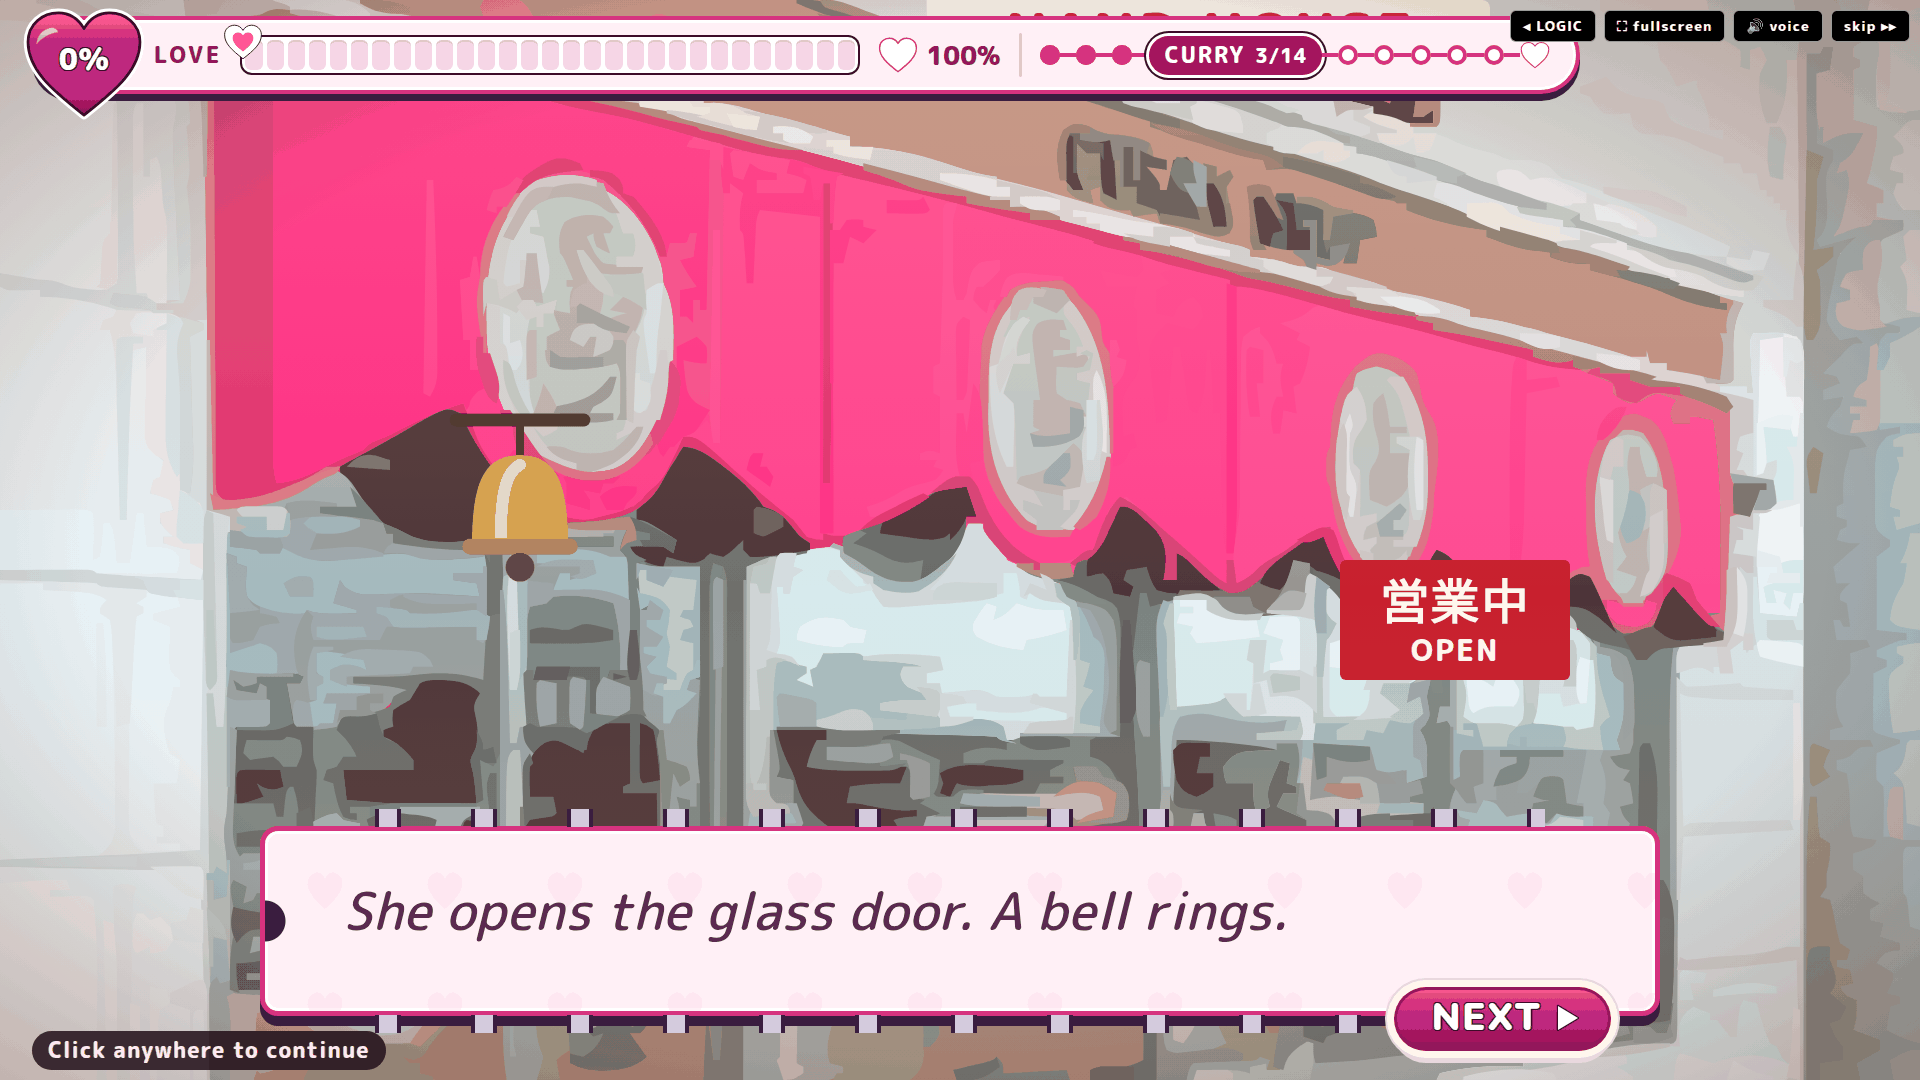
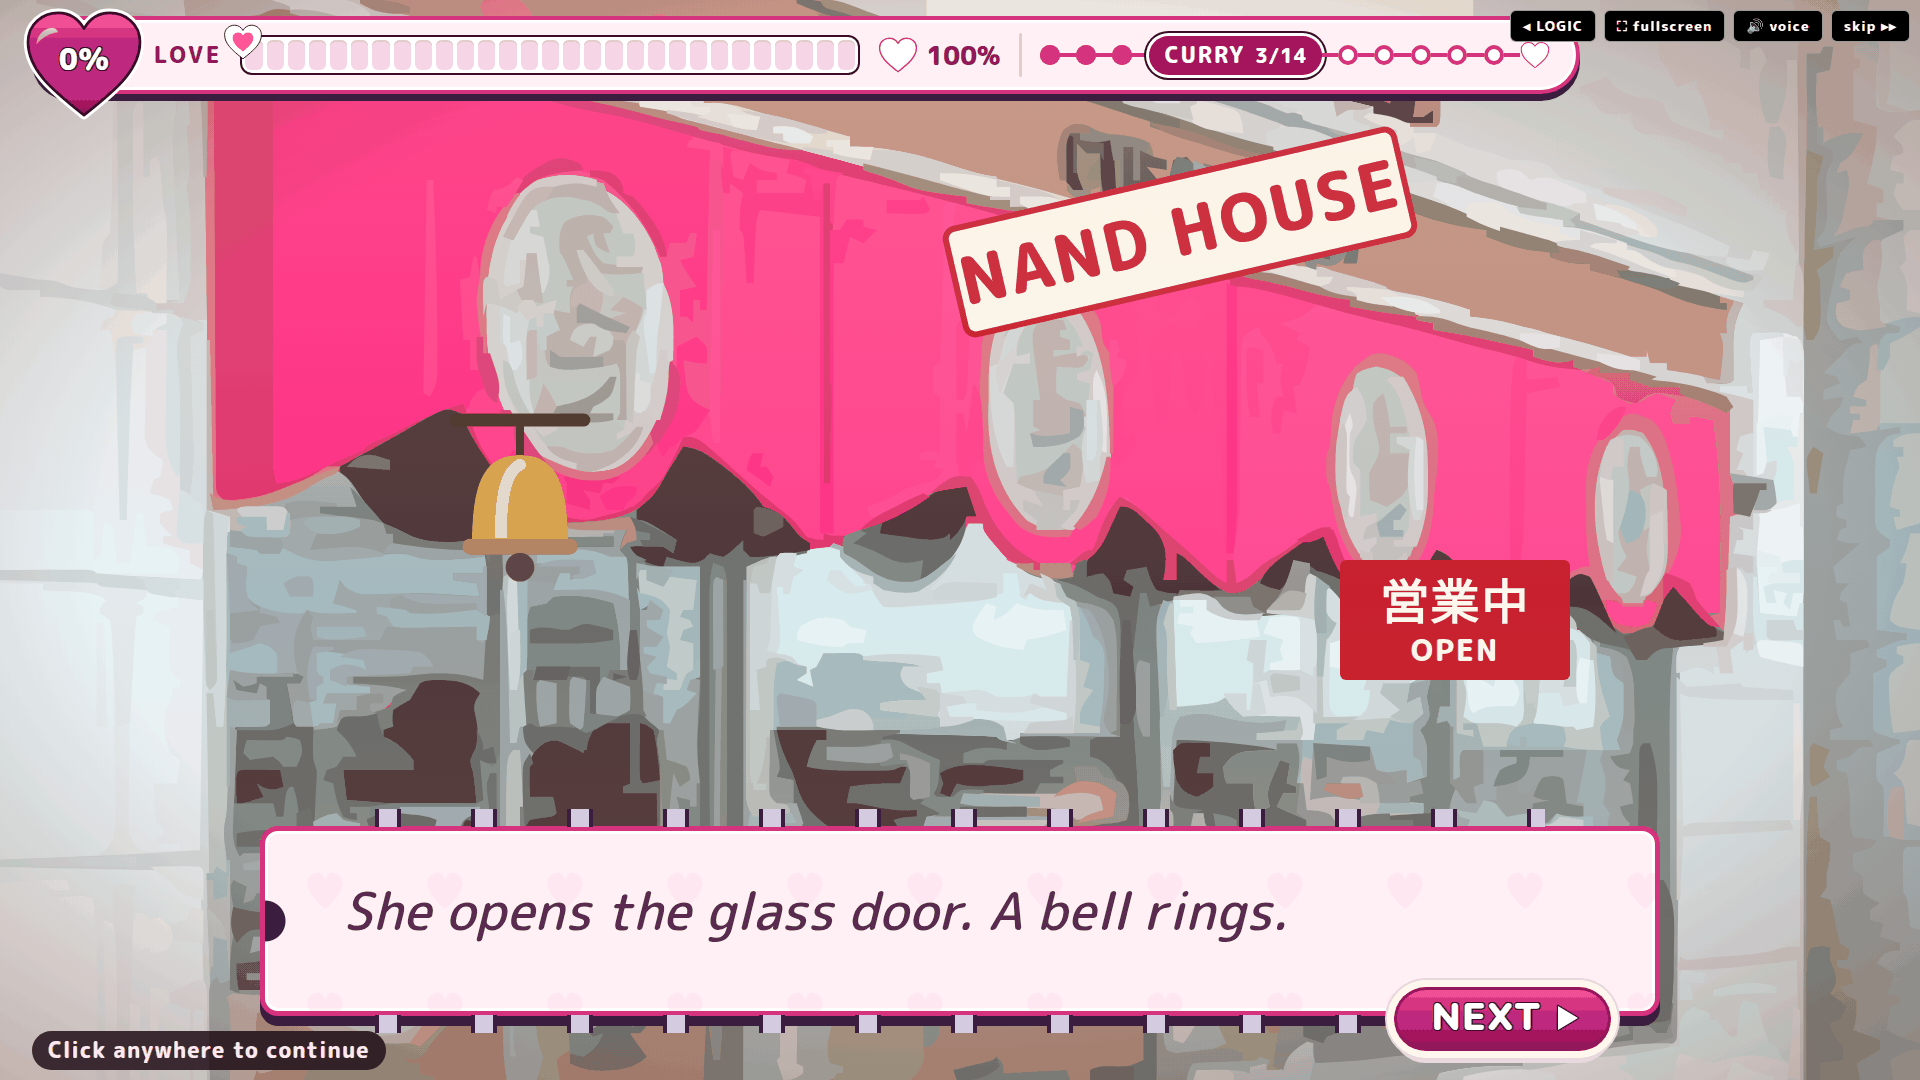
curry r2 batch 2: physics self-critique (CURRY-PHYSICS.md), HIGH fixed (door signs out of HUD band, no floating legs), chains re-shot
Claude-Session: https://claude.ai/code/session_01SJvvUToGvjR4saHp1762z5

diff --git a/src/date-beta/art/curry/Butter.jsx b/src/date-beta/art/curry/Butter.jsx
@@ -44,8 +44,11 @@ export function CurryChoice() {
 export function CurryButterDoor() {
   return (
     <CurryScene id="butter-door" label="Insert: the glass door of NAND HOUSE under its pink awning, a brass bell hanging on the frame.">
-      <rect x="930" y="0" width="560" height="74" rx="8" fill="#fbf7ef" />
-      <text className="cu-sign" x="1210" y="58" textAnchor="middle" fontSize="60" fill="#c8202e">NAND HOUSE</text>
+      {/* our sign, on the slanted sign band over the old shop name (kept below the y=140 HUD band) */}
+      <g transform="rotate(-13 1180 232)">
+        <rect x="950" y="178" width="460" height="108" rx="10" fill="#fbf7ef" stroke="#c8202e" strokeWidth="6" />
+        <text className="cu-sign" x="1180" y="256" textAnchor="middle" fontSize="66" fill="#c8202e">NAND HOUSE</text>
+      </g>
       <Bell x={520} y={420} s={1.6} />
       <Plate x={1340} y={560} w={230} h={120} bg="#c8202e" fg="#fff4ea" jp="営業中" en="OPEN" jpSize={50} enSize={30} />
     </CurryScene>
@@ -139,7 +142,7 @@ export function CurryButterBite() {
 export function CurryLassi() {
   return (
     <CurryScene id="lassi" label="A mango lassi in a tall glass with one pink straw, on the orange tablecloth next to the lunch tray. A menu card says LASSI.">
-      <g transform="translate(1440 620)">
+      <g transform="translate(1440 420)">
         <path d="M0 150L40 0H260L300 150z" fill="#fbf6ea" stroke="#c8202e" strokeWidth="6" />
         <text className="cu-sign" x="150" y="70" textAnchor="middle" fontSize="46" fill="#c8202e">LASSI</text>
         <text className="cu-jp" x="150" y="128" textAnchor="middle" fontSize="32" fill="#5a3a2a">マンゴー ¥300</text>

diff --git a/src/date-beta/art/curry/Katsu.jsx b/src/date-beta/art/curry/Katsu.jsx
@@ -8,8 +8,8 @@ import { CurryScene, Plate, Steam, Bell, usePose, preloadTrace } from './parts.j
 export function CurryKatsuDoor() {
   return (
     <CurryScene id="katsu-door" label="Insert: the yellow front of OR OR CURRY, a glass door with a brass bell above it.">
-      <rect x="180" y="84" width="1500" height="220" rx="10" fill="#c8202e" />
-      <text className="cu-jp" x="930" y="232" textAnchor="middle" fontSize="130" fill="#fff4d0">OR OR カレー</text>
+      <rect x="180" y="84" width="1500" height="250" rx="10" fill="#c8202e" />
+      <text className="cu-jp" x="930" y="292" textAnchor="middle" fontSize="120" fill="#fff4d0">OR OR カレー</text>
       <rect x="392" y="572" width="896" height="508" fill="#7a5a3c" />
       <rect x="420" y="600" width="410" height="480" fill="#e8d7a8" opacity=".78" />
       <rect x="850" y="600" width="410" height="480" fill="#e8d7a8" opacity=".78" />

diff --git a/research/sprint-0930/curry/CURRY-PHYSICS.md b/research/sprint-0930/curry/CURRY-PHYSICS.md
@@ -1,0 +1,45 @@
+# CURRY physics self-critique (r2, after batch 1)
+
+This critique uses the standard in SHOP-PHYSICS-CRITIQUE.md, applied to the curry scene. It checks eight things:
+- one 3:00 PM light
+- one vanishing point per drawing
+- Nanda anchored to a floor or seat, with a shadow
+- hands with 5 fingers, attached to an arm
+- props touching surfaces
+- no art text above y≈140
+- the same dish sprite in every shot
+- the dialogue box never clipping the focus of a shot
+
+I viewed all 34 beat shots in `shots/` (butter 14, katsu 2 + 12, alone 2 + 4) at 1920x1080. Coordinates are frame px.
+
+Format: severity | shot | problem | fix / status
+
+## HIGH (all fixed in batch 2)
+- HIGH | butter-02 (curry-butter-door) | Our NAND HOUSE plate sat at y0-74, fully under the HUD ribbon. So the door had no readable shop name, and the old photo lettering showed through on the sign band. | **FIXED:** the plate now lies on the slanted sign band at y≈180-290, rotated -13° to match the band's slope (one VP with the awning). It also covers the old lettering.
+- HIGH | katsu-02 / alone-02 (curry-katsu-door) | The "OR OR カレー" lettering started at y84, so its top was in the HUD band. | **FIXED:** the lettering baseline moved to y292 (cap top ≈ y190). The red plate still covers the old name.
+- HIGH | alone-03 (v2-curry-alone 1) | The `close` hate frame drew her full body: her legs and feet hung in mid-air over the counter photo, with no floor and no shadow. | **FIXED:** the beat now uses the `medium` frame with `face: hate`. She is cut at the box like every other two-shot, so no legs float.
+- HIGH (r1 → r2) | butter-09/10, katsu feed/bite | In r1 the "Feed me" and "eyes" beats used sprite frames that the box cut through at the mouth. So the feeding and the curry at her mouth could not be seen. | **FIXED in batch 1:** full-frame hand-drawn extreme close-ups. Her mouth, your fingers, the food, and the sauce smear all sit above y≈740.
+- HIGH (r1 → r2) | exit beats | The napkin was only told in words over the street picture. | **FIXED in batch 1:** a napkin shot on both paths, and a folded-napkin shot on the not-hungry path.
+
+## MED
+- MED | 00/01 curry-choice, the exits (curry-street, alt's art) | Nanda stands in the street with no shadow on the pavement. Her lower half is hidden by the box, so nothing looks wrong, but nothing anchors her either. | Open. curry-street is alt's r3 art, not ours to touch. For curry-choice, a pavement shadow would sit under the box. Leave as is.
+- MED | butter-02/03, katsu-02/03 (photo traces) | The vtraced photo shots keep their photo lighting, which is flat daylight with no clear source. They do not show the window-left key that all hand shots use. | Open. A full redraw of 4 photo backgrounds is out of scope for r2. The shared `afternoon` wash keeps their colour temperature matched.
+- MED | butter-06 (naan-lift) | Her hand covers most of the ragged torn edge of the naan tip, so the "tear" reads mostly from the piece in her fingers. | Open. Next time: shift the crop 120 px left.
+- MED | butter-10 / katsu bite | The upper-lip line is drawn across the far end of the food. At full size it reads as the lips closing on the food, but at thumbnail size it reads as a line across the food. | Open. Draw the lip line only past the food edges.
+- MED | butter-11 (lassi) | The LASSI menu card was cut by the box. | **FIXED:** the card moved up 200 px, to y420-570.
+- MED | butter-02 | Some faint photo lettering shows left of the new plate (x≈1000-1080, y≈180). | Open (it is behind a blur-like wash).
+
+## LOW
+- LOW | katsu-08 (katsu-close) | The roux drip under the dipped piece is hidden by her fingers. | Leave: the roux coat on the piece still reads.
+- LOW | katsu-05 (katsu-dish) | The fanned cutlet is long and thin next to the ref (images(183) is fatter). | Leave.
+- LOW | feed POV shots | The box covers your cuff and wrist. The fingers and the food stay visible. | Leave (that is the intended framing).
+- LOW | thali / counter plate | The two-shot copies of the dish are 0.26-0.34x scale, so their details go to mush. It is still the same sprite. | Leave.
+
+## Checklist (after batch 2)
+- **One light:** every hand-drawn shot has the window at the upper left, highlights on the top-left, and cast shadows down-right (+26, +34). ✔
+- **One VP:** the cloth weave, counter planks, and floor lines each radiate from one VP per drawing, and every close-up is a crop of its hero. ✔
+- **Nanda anchored:** in the two-shots she sits on a booth seat (butter) or a red stool (katsu), and her cast shadow falls to her right. Her full-body frame on the alone path is gone. ✔ (the street: MED above)
+- **5-finger hands:** every hand is attached to a wrist, a cuff, and a sleeve off the frame edge. ✔
+- **Props touch surfaces:** glasses have contact and cast shadows. Food is held between fingers or lies on the plate. The spoon edge touches the cutlet. The napkin wraps your fingers. ✔
+- **No art text above y≈140:** the door plates are fixed. The katsu counter menu text is at y≥205. The hand art has no text. ✔
+- **Same dish sprite across shots:** `thali_group()` and `katsu_plate()` are reused by crop in every shot. The naan piece and the katsu piece are one function each. ✔

diff --git a/research/sprint-0930/curry/BATCHES.md b/research/sprint-0930/curry/BATCHES.md
@@ -23,4 +23,6 @@ All art comes from `pipeline/draw.py`. It is hand-drawn flat cel and is written 
 - **Output:** chain-butter.png and chain-katsu.png, re-shot.
 
 ## Batch 2: physics pass (CURRY-PHYSICS.md), all HIGH fixed
-See CURRY-PHYSICS.md.
+- NAND HOUSE door plate moved out of the HUD band onto the slanted sign band. OR OR カレー lettering lowered below y=140.
+- Not-hungry hate beat: `close` → `medium` + `face: hate` (no floating legs). LASSI menu card moved clear of the box.
+- CURRY-PHYSICS.md written (HIGH / MED / LOW, open MEDs listed). Chains re-shot.
